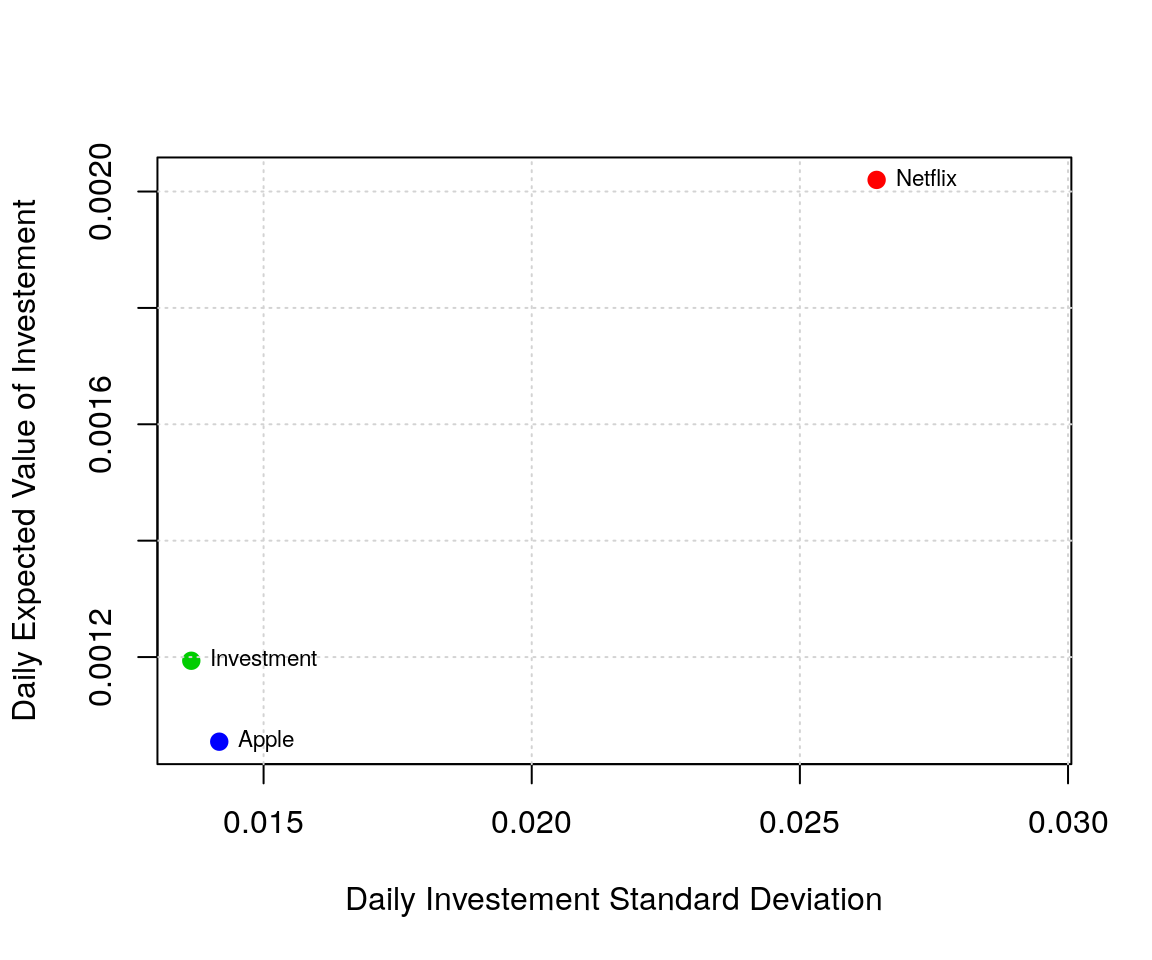
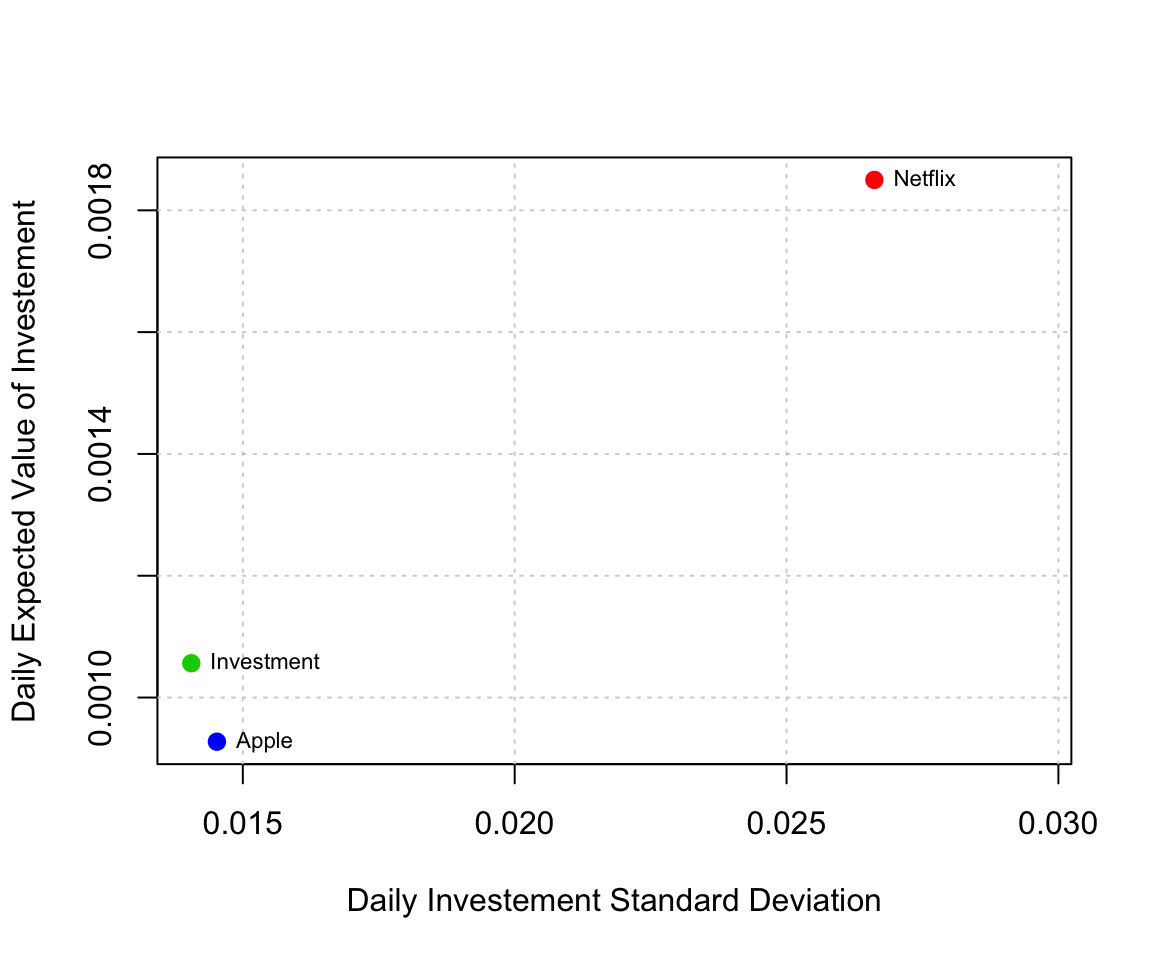
fix ggmap example in data.frame section

diff --git a/docs/data.html b/docs/data.html
@@ -5,11 +5,11 @@
 
   <meta charset="UTF-8">
   <meta http-equiv="X-UA-Compatible" content="IE=edge">
-  <title>An Introduction to Statistical Programming Methods with R</title>
+  <title>Chapter 4 Data Structures | An Introduction to Statistical Programming Methods with R</title>
   <meta name="description" content="This book is under construction and serves as a reference for students or other interested readers who intend to learn the basics of statistical programming using the R language. The book will provide the reader with notions of data management, manipulation and analysis as well as of reproducible research, result-sharing and version control.">
   <meta name="generator" content="bookdown  and GitBook 2.6.7">
 
-  <meta property="og:title" content="An Introduction to Statistical Programming Methods with R" />
+  <meta property="og:title" content="Chapter 4 Data Structures | An Introduction to Statistical Programming Methods with R" />
   <meta property="og:type" content="book" />
   <meta property="og:url" content="https://smac-group.github.io/ds/" />
   
@@ -17,7 +17,7 @@
   <meta name="github-repo" content="smac-group/ds" />
 
   <meta name="twitter:card" content="summary" />
-  <meta name="twitter:title" content="An Introduction to Statistical Programming Methods with R" />
+  <meta name="twitter:title" content="Chapter 4 Data Structures | An Introduction to Statistical Programming Methods with R" />
   
   <meta name="twitter:description" content="This book is under construction and serves as a reference for students or other interested readers who intend to learn the basics of statistical programming using the R language. The book will provide the reader with notions of data management, manipulation and analysis as well as of reproducible research, result-sharing and version control." />
   
@@ -25,7 +25,7 @@
 <meta name="author" content="Matthew Beckman, Stéphane Guerrier, Justin Lee, Roberto Molinari, Samuel Orso &amp; Iegor Rudnytskyi">
 
 
-<meta name="date" content="2019-01-25">
+<meta name="date" content="2019-03-23">
 
   <meta name="viewport" content="width=device-width, initial-scale=1">
   <meta name="apple-mobile-web-app-capable" content="yes">
@@ -36,6 +36,7 @@
 <link rel="next" href="control.html">
 <script src="libs/jquery-2.2.3/jquery.min.js"></script>
 <link href="libs/gitbook-2.6.7/css/style.css" rel="stylesheet" />
+<link href="libs/gitbook-2.6.7/css/plugin-table.css" rel="stylesheet" />
 <link href="libs/gitbook-2.6.7/css/plugin-bookdown.css" rel="stylesheet" />
 <link href="libs/gitbook-2.6.7/css/plugin-highlight.css" rel="stylesheet" />
 <link href="libs/gitbook-2.6.7/css/plugin-search.css" rel="stylesheet" />
@@ -153,21 +154,15 @@ code > span.in { color: #60a0b0; font-weight: bold; font-style: italic; } /* Inf
 <li class="chapter" data-level="3" data-path="github.html"><a href="github.html"><i class="fa fa-check"></i><b>3</b> GitHub</a><ul>
 <li class="chapter" data-level="3.1" data-path="github.html"><a href="github.html#version-control"><i class="fa fa-check"></i><b>3.1</b> Version Control</a></li>
 <li class="chapter" data-level="3.2" data-path="github.html"><a href="github.html#git-and-github"><i class="fa fa-check"></i><b>3.2</b> Git and GitHub</a><ul>
-<li class="chapter" data-level="3.2.1" data-path="github.html"><a href="github.html#git-setup"><i class="fa fa-check"></i><b>3.2.1</b> Git Setup</a></li>
+<li class="chapter" data-level="3.2.1" data-path="github.html"><a href="github.html#git-rstudio-configuration"><i class="fa fa-check"></i><b>3.2.1</b> Git &amp; RStudio Configuration</a></li>
 <li class="chapter" data-level="3.2.2" data-path="github.html"><a href="github.html#github-setup"><i class="fa fa-check"></i><b>3.2.2</b> GitHub Setup</a></li>
-<li class="chapter" data-level="3.2.3" data-path="github.html"><a href="github.html#student-developer-pack"><i class="fa fa-check"></i><b>3.2.3</b> Student Developer Pack</a></li>
+<li class="chapter" data-level="3.2.3" data-path="github.html"><a href="github.html#connecting-to-rstudio"><i class="fa fa-check"></i><b>3.2.3</b> Connecting to RStudio</a></li>
+<li class="chapter" data-level="3.2.4" data-path="github.html"><a href="github.html#the-basic-workflow"><i class="fa fa-check"></i><b>3.2.4</b> The basic workflow</a></li>
+<li class="chapter" data-level="3.2.5" data-path="github.html"><a href="github.html#note-about-github-student-developer-pack"><i class="fa fa-check"></i><b>3.2.5</b> Note about GitHub Student Developer Pack</a></li>
 </ul></li>
-<li class="chapter" data-level="3.3" data-path="github.html"><a href="github.html#github-workflow"><i class="fa fa-check"></i><b>3.3</b> GitHub Workflow</a><ul>
-<li class="chapter" data-level="3.3.1" data-path="github.html"><a href="github.html#branching"><i class="fa fa-check"></i><b>3.3.1</b> Branching</a></li>
-<li class="chapter" data-level="3.3.2" data-path="github.html"><a href="github.html#pull"><i class="fa fa-check"></i><b>3.3.2</b> Pull</a></li>
-<li class="chapter" data-level="3.3.3" data-path="github.html"><a href="github.html#commits"><i class="fa fa-check"></i><b>3.3.3</b> Commits</a></li>
-<li class="chapter" data-level="3.3.4" data-path="github.html"><a href="github.html#push-or-merge"><i class="fa fa-check"></i><b>3.3.4</b> Push or Merge</a></li>
-<li class="chapter" data-level="3.3.5" data-path="github.html"><a href="github.html#merge-conflicts"><i class="fa fa-check"></i><b>3.3.5</b> Merge Conflicts</a></li>
-</ul></li>
-<li class="chapter" data-level="3.4" data-path="github.html"><a href="github.html#github-workflow-on-command-line-git-bash"><i class="fa fa-check"></i><b>3.4</b> GitHub Workflow on Command Line / Git Bash</a></li>
-<li class="chapter" data-level="3.5" data-path="github.html"><a href="github.html#issues"><i class="fa fa-check"></i><b>3.5</b> Issues</a></li>
-<li class="chapter" data-level="3.6" data-path="github.html"><a href="github.html#slack-integration"><i class="fa fa-check"></i><b>3.6</b> Slack Integration</a></li>
-<li class="chapter" data-level="3.7" data-path="github.html"><a href="github.html#additional-references-2"><i class="fa fa-check"></i><b>3.7</b> Additional References</a></li>
+<li class="chapter" data-level="3.3" data-path="github.html"><a href="github.html#issues"><i class="fa fa-check"></i><b>3.3</b> Issues</a></li>
+<li class="chapter" data-level="3.4" data-path="github.html"><a href="github.html#slack-integration"><i class="fa fa-check"></i><b>3.4</b> Slack Integration</a></li>
+<li class="chapter" data-level="3.5" data-path="github.html"><a href="github.html#additional-references-2"><i class="fa fa-check"></i><b>3.5</b> Additional References</a></li>
 </ul></li>
 <li class="part"><span><b>II Introduction to R</b></span></li>
 <li class="chapter" data-level="4" data-path="data.html"><a href="data.html"><i class="fa fa-check"></i><b>4</b> Data Structures</a><ul>
@@ -734,10 +729,10 @@ Note that it is not permitted to “mix” positive and negative indices. For ex
 <h3><span class="header-section-number">4.1.9</span> Example: Apple Stock Price</h3>
 <p>Suppose that someone is interested in analyzing the behavior of Apple’s stock price over the last three months. The first thing needed to perform such analysis is to recover (automatically) today’s date. In R, this can be obtained as follows</p>
 <div class="sourceCode"><pre class="sourceCode r"><code class="sourceCode r">(today &lt;-<span class="st"> </span><span class="kw">Sys.Date</span>())</code></pre></div>
-<pre><code>## [1] &quot;2018-11-09&quot;</code></pre>
+<pre><code>## [1] &quot;2019-03-23&quot;</code></pre>
 <p>Once this is done, we can obtain the date which is exactly three months ago by using</p>
 <div class="sourceCode"><pre class="sourceCode r"><code class="sourceCode r">(three_months_ago &lt;-<span class="st"> </span><span class="kw">seq</span>(today, <span class="dt">length =</span> <span class="dv">2</span>, <span class="dt">by =</span> <span class="st">&quot;-3 months&quot;</span>)[<span class="dv">2</span>])</code></pre></div>
-<pre><code>## [1] &quot;2018-08-09&quot;</code></pre>
+<pre><code>## [1] &quot;2018-12-23&quot;</code></pre>
 <p>With this information, we can now download Apple’s stock price and represent these stocks through a candlestick chart which summarizes information on daily opening and closing prices as well as minimum and maximum prices. These charts are often used with the hope of detecting trading patterns over a given period of time.</p>
 <div class="sourceCode"><pre class="sourceCode r"><code class="sourceCode r"><span class="kw">library</span>(quantmod)
 <span class="kw">getSymbols</span>(<span class="st">&quot;AAPL&quot;</span>, <span class="dt">from =</span> three_months_ago, <span class="dt">to =</span> today)
@@ -1260,8 +1255,8 @@ knitr<span class="op">::</span><span class="kw">kable</span>(investment_summary)
 </table>
 <p>In Table <a href="data.html#tab:tableprtexample">4.4</a> and the plot below we can observe that Netflix has high risk and high return. Apple seems like a safer investment in terms of risk but lower in expected return. Our portfolio optimization investment, however, seems to be in a good area, meaning that it has low risk and a return that is between the two stocks mentioned above. Finally, we provide a graphical representation of the obtained results in the figure below.</p>
 <!-- ### NEED TO FIX THIS  -->
-<div class="figure" style="text-align: center"><span id="fig:unnamed-chunk-112"></span>
-<img src="ds_files/figure-html/unnamed-chunk-112-1.png" alt="Graphical representation of Apple, Netflix and min-variance portfolio based on these two assets." width="576" />
+<div class="figure" style="text-align: center"><span id="fig:unnamed-chunk-68"></span>
+<img src="ds_files/figure-html/unnamed-chunk-68-1.png" alt="Graphical representation of Apple, Netflix and min-variance portfolio based on these two assets." width="576" />
 <p class="caption">
 Figure 4.2: Graphical representation of Apple, Netflix and min-variance portfolio based on these two assets.
 </p>
@@ -1595,20 +1590,24 @@ tennis[<span class="kw">order</span>(tennis[,<span class="st">&quot;grand_slam_w
 <div id="example-maps" class="section level3">
 <h3><span class="header-section-number">4.5.3</span> Example: Maps</h3>
 <p>Dataframe objects can be optimized for different applications, as many packages use dataframes as input or output objects. For example, we will use a package, <code>ggmap</code> to map simple cities. We will talk more about the functionality of the package later. We can extract the latitude - longitude information of the specific cities of the tennis players using <code>geocode</code> within <code>ggmap</code>.</p>
+<pre><code>## Loading required package: ggplot2</code></pre>
+<pre><code>## Google&#39;s Terms of Service: https://cloud.google.com/maps-platform/terms/.</code></pre>
+<pre><code>## Please cite ggmap if you use it! See citation(&quot;ggmap&quot;) for details.</code></pre>
 <div class="sourceCode"><pre class="sourceCode r"><code class="sourceCode r"><span class="kw">library</span>(ggmap)
-birth_place &lt;-<span class="st"> </span><span class="kw">c</span>(<span class="st">&quot;Glasgow, Scotland&quot;</span>, <span class="st">&quot;Manacor, Spain&quot;</span>, <span class="st">&quot;Lausanne, Switzerland&quot;</span>,
-                <span class="st">&quot;Belgrade, Serbia&quot;</span>, <span class="st">&quot;Basel, Switzerland&quot;</span>)
-birth_coord &lt;-<span class="st"> </span><span class="kw">geocode</span>(birth_place, <span class="dt">source =</span> <span class="st">&quot;dsk&quot;</span>)</code></pre></div>
+birth_place &lt;-<span class="st"> </span><span class="kw">c</span>(<span class="st">&quot;Glasgow, Scotland&quot;</span>, <span class="st">&quot;Manacor, Spain&quot;</span>, <span class="st">&quot;Lausanne, Switzerland&quot;</span>, <span class="st">&quot;Belgrade, Serbia&quot;</span>, <span class="st">&quot;Basel, Switzerland&quot;</span>)
+birth_coord &lt;-<span class="st"> </span><span class="kw">geocode</span>(birth_place, <span class="dt">source =</span> <span class="st">&quot;google&quot;</span>)</code></pre></div>
 <p>Furthermore, we can create new columns of dataframes using vectors that we created before.</p>
 <div class="sourceCode"><pre class="sourceCode r"><code class="sourceCode r">birth_coord<span class="op">$</span>Players &lt;-<span class="st"> </span>players
 birth_coord<span class="op">$</span>GS &lt;-<span class="st"> </span>grand_slam_win
 birth_coord</code></pre></div>
-<pre><code>##         lon      lat        Players GS
-## 1 -4.249989 55.86115    Andy Murray  9
-## 2  3.209550 39.56964   Rafael Nadal 15
-## 3  6.632820 46.51600  Stan Wawrinka  5
-## 4 20.465130 44.80401 Novak Djokovic 12
-## 5  7.573270 47.55840  Roger Federer 18</code></pre>
+<pre><code>## # A tibble: 5 x 4
+##      lon   lat Players           GS
+##    &lt;dbl&gt; &lt;dbl&gt; &lt;chr&gt;          &lt;dbl&gt;
+## 1  -4.25  55.9 Andy Murray        9
+## 2   3.21  39.6 Rafael Nadal      15
+## 3   6.63  46.5 Stan Wawrinka      5
+## 4  20.4   44.8 Novak Djokovic    12
+## 5   7.59  47.6 Roger Federer     18</code></pre>
 <div class="sourceCode"><pre class="sourceCode r"><code class="sourceCode r"><span class="kw">is.data.frame</span>(birth_coord)</code></pre></div>
 <pre><code>## [1] TRUE</code></pre>
 <p>Let’s represent this information graphically. We haven’t seen how to make graph yet so don’t worry too much about the details of how this graph is made.</p>
@@ -1669,7 +1668,7 @@ gitbook.start({
 "google": false,
 "linkedin": false,
 "weibo": false,
-"instapper": false,
+"instapaper": false,
 "vk": false,
 "all": ["facebook", "google", "twitter", "linkedin", "weibo", "instapaper"]
 },
@@ -1681,6 +1680,10 @@ gitbook.start({
 "edit": {
 "link": "https://github.com/rstudio/bookdown-demo/edit/master/03-data.Rmd",
 "text": "Edit"
+},
+"history": {
+"link": null,
+"text": null
 },
 "download": ["ds.pdf", "ds.dvi", "ds.epub"],
 "toc": {
@@ -1696,7 +1699,7 @@ gitbook.start({
     var script = document.createElement("script");
     script.type = "text/javascript";
     var src = "";
-    if (src === "" || src === "true") src = "https://cdn.bootcss.com/mathjax/2.7.1/MathJax.js?config=TeX-MML-AM_CHTML";
+    if (src === "" || src === "true") src = "https://mathjax.rstudio.com/latest/MathJax.js?config=TeX-MML-AM_CHTML";
     if (location.protocol !== "file:" && /^https?:/.test(src))
       src = src.replace(/^https?:/, '');
     script.src = src;
